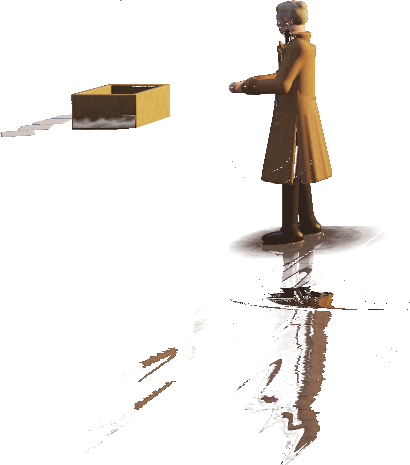
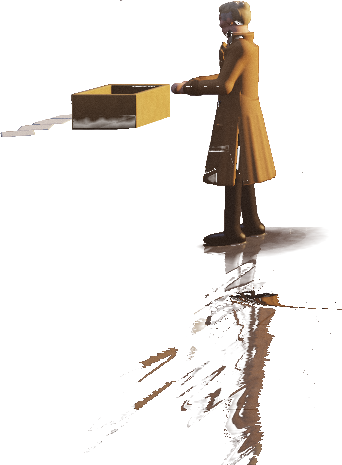
Case 5 end cards: Quist's laptop faces her and she stands at the hood, Doyle stands next to the box and the car

diff --git a/tools/r3/pier9_dock.py b/tools/r3/pier9_dock.py
@@ -253,9 +253,10 @@ BOLLARD = (5.05, 4.4)         # the iron bollard at the end of the pier, where R
 BRENNER = (3.05, 3.65)        # where Brenner stands to talk, facing Ray at the bollard
 HOOD = (-3.65, 0.5)           # Brenner bent over the Lincoln's hood from the camera's side, back to us, cuffed
 VANCE = (1.5, -1.85)          # Vance in his doorway
-DOYLE = (-3.55, 2.25)         # by the hood of Ray's car, where the box is laid out
+DOYLE = (-3.95, 2.3)          # by the hood of Ray's car, where the box is laid out
 OKAFOR = (-3.45, 2.2)
-MARA = (-3.5, 2.3)
+MARA = (-4.05, 2.4)
+LAP_Z, LAP_TILT = 0.12, 12
 
 VANCE_COLORS = dict(coat=(52, 52, 58), coat_dk=(38, 38, 42), lining=(60, 56, 70), shirt=(104, 96, 118),
                     pants=(44, 44, 50), hair=(190, 188, 184), hairgrey=(214, 212, 208), brow=(170, 168, 164),
@@ -344,8 +345,12 @@ def dawn_extras(S, hide, time, EDGE):
                                        hp=8, hy=20), (OKAFOR[0], 0.0, OKAFOR[1]), yaw=70, scale=0.94, tag='okafor')
         if 'mara' not in hide:
             with S.tag('mara_laptop'):
-                S.wbox((-4.75, 0.86, 2.55), (0.17, 0.01, 0.12), 'laptop', rot=Ry(-70))
-                S.wbox((-4.68, 0.97, 2.48), (0.17, 0.11, 0.008), 'laptop_lit', rot=Ry(-70) @ Rx(-12))
+                # open on the hood, screen on the far side from Mara and tilted back, so its face is turned to her
+                ly = Ry(-70)
+                lb = np.array((-4.75, 0.86, 2.5))
+                S.wbox(tuple(lb), (0.17, 0.01, 0.12), 'laptop', rot=ly)
+                S.wbox(tuple(lb + ly @ np.array((0.0, 0.07, LAP_Z))), (0.17, 0.11, 0.008), 'laptop_lit',
+                       rot=ly @ Rx(LAP_TILT))
             npc.cast(S, 'mara', dict(npc.STAND, headset=True, lsp=30, le=74, lin=20, rsp=30, re=78, rin=22, hp=18,
                                      hy=-10), (MARA[0], 0.0, MARA[1]), yaw=-75, scale=0.94, tag='mara')
 
